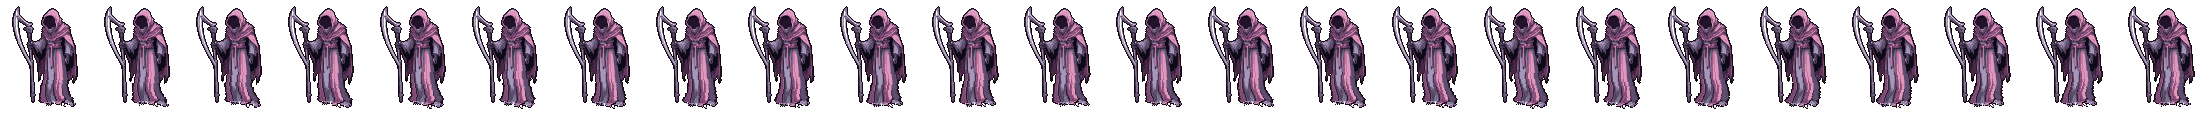
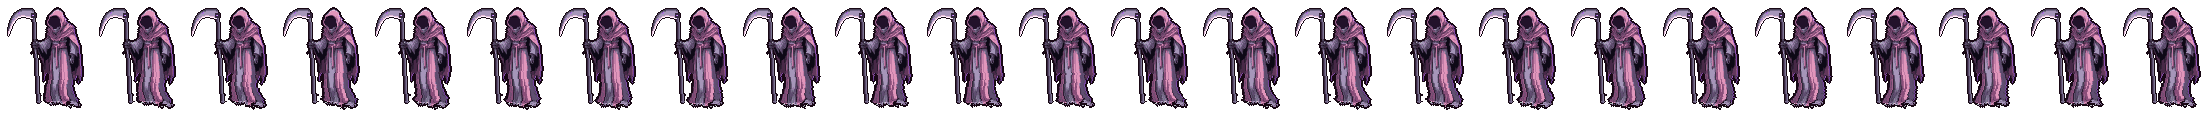
A real scythe, a violet rim of light, and slightly taller eyes
The blade is a broad crescent off the top of a straight haft, with a bright
cutting edge and a violet glint; the sprite is 10 pixels wider on the left
to hold it. The robe's right edge catches the purple glow. The eyes are
the original two points of light, one pixel taller.

diff --git a/desktop/renderer/style.css b/desktop/renderer/style.css
@@ -98,11 +98,11 @@ body.is-capturing * { visibility: hidden !important; }
 .sprite { position: relative; image-rendering: pixelated; }
 .eyes {
   position: absolute;
-  left: 45px;
+  left: 50px;
   top: 21px;
   width: 9px;
-  height: 3px;
-  background: url('../assets/eyes.png') 0 0 / 27px 3px no-repeat;
+  height: 4px;
+  background: url('../assets/eyes.png') 0 0 / 27px 4px no-repeat;
   image-rendering: pixelated;
   filter: drop-shadow(0 0 1px rgba(190, 110, 255, 1)) drop-shadow(0 0 3px rgba(150, 70, 230, 0.9));
   animation: glance 11s steps(1, end) infinite;
